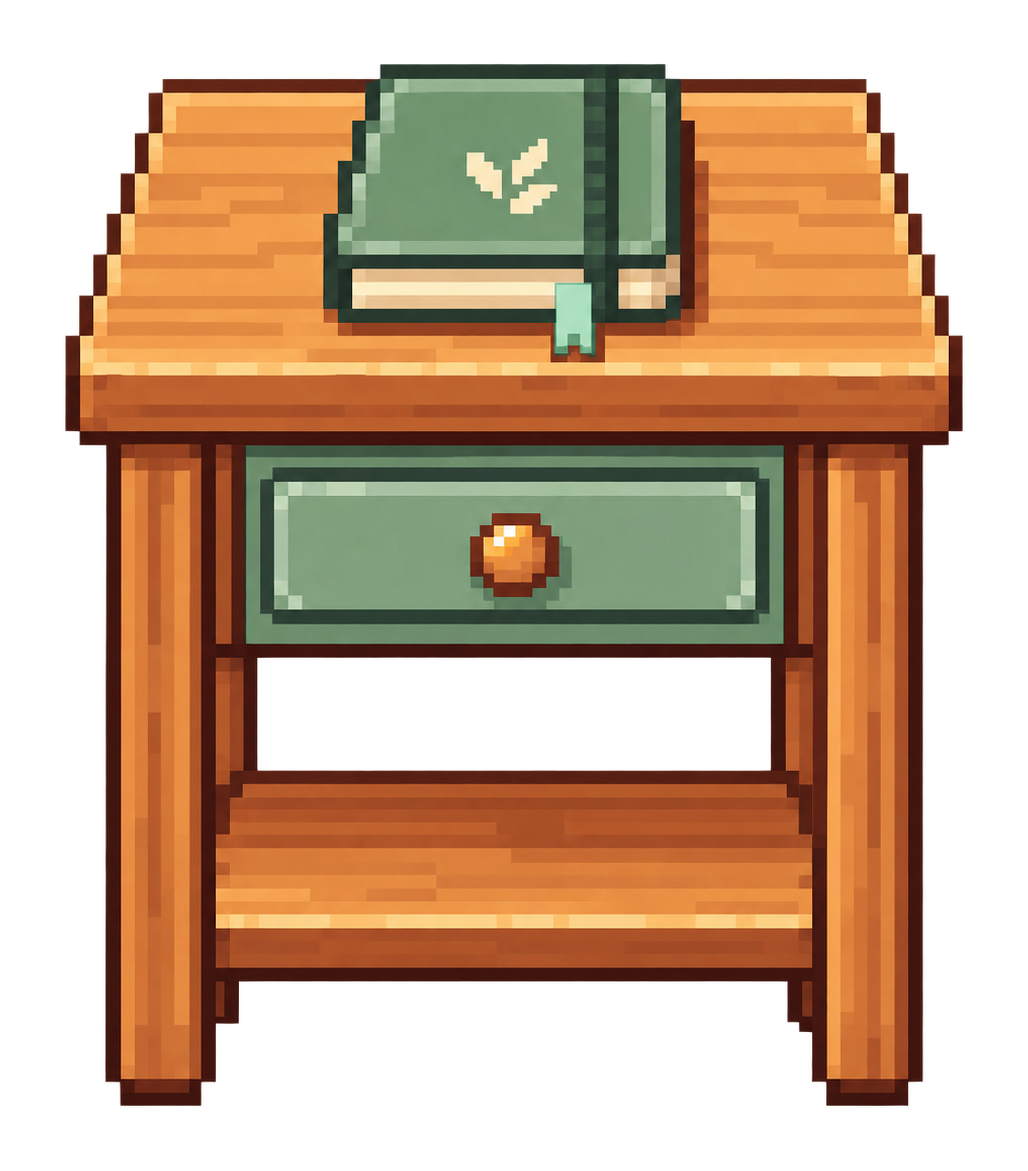
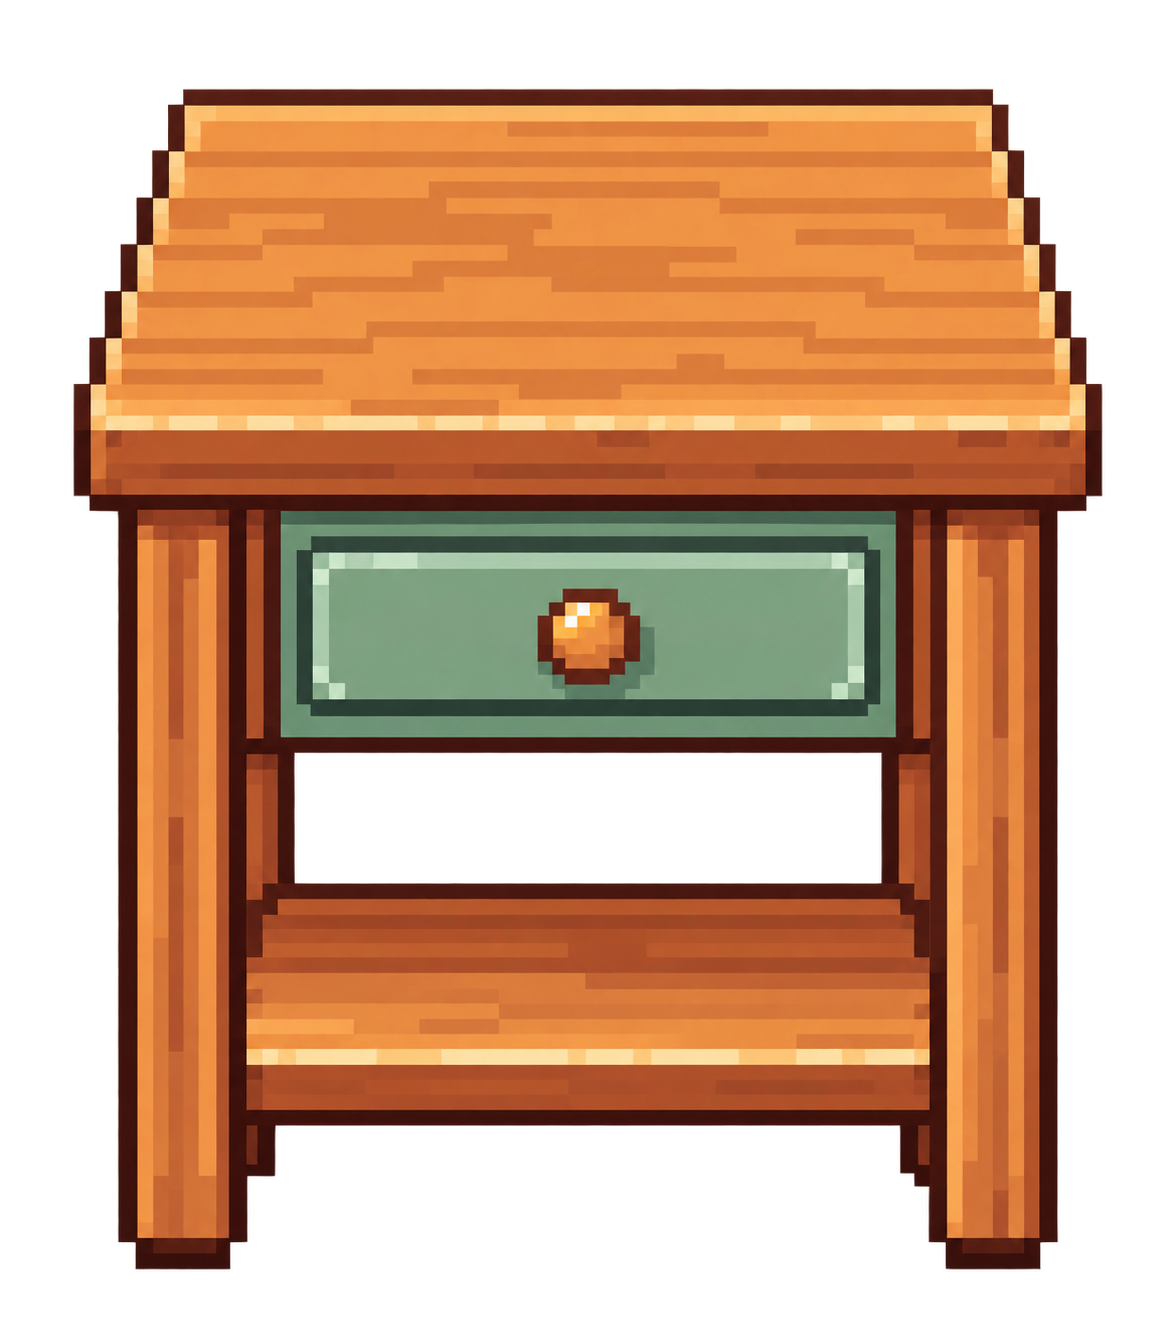
Clear side tables and adjust coffee machine layering and TV height

diff --git a/src/renderer/src/game/OfficeScene.ts b/src/renderer/src/game/OfficeScene.ts
@@ -164,6 +164,7 @@ const TABLETOP_FURNITURE_FRAMES = new Set([DESK_FURNITURE_FRAME, 6, 16, CONFEREN
 // Keep the monitor wider than a seated character's head so its edges remain visible.
 const DESK_ASSET_SCALE = 1
 const CHAIR_ASSET_SCALE = 1.33
+const SCREEN_HEIGHT_SCALE = 2.5
 const FURNITURE_WALK_CLEARANCE = 2
 type FurnitureDirection = typeof FURNITURE_DIRECTIONS[number]
 const directionalFurnitureAssets = import.meta.glob('../assets/pixel-office/furniture/directional/*.png', {
@@ -236,6 +237,11 @@ const ACTOR_SPRITE_Y_OFFSET = -64
 const SEAT_ACCESS_RADIUS = 144
 
 function furnitureDisplaySize(frame: number, columns: number, rows: number): { width: number; height: number } {
+  // Grow the screen's short axis while preserving its width and wall placement.
+  // Cardinal side views swap that axis when the furniture is rotated.
+  if (frame === 5) return columns >= rows
+    ? { width: columns * 16, height: rows * 16 * SCREEN_HEIGHT_SCALE }
+    : { width: columns * 16 * SCREEN_HEIGHT_SCALE, height: rows * 16 }
   const scale = frame === DESK_FURNITURE_FRAME ? DESK_ASSET_SCALE
     : [12, 13, 14].includes(frame) ? CHAIR_ASSET_SCALE : 1
   return { width: columns * 16 * scale, height: rows * 16 * scale }
@@ -1153,10 +1159,11 @@ export class OfficeScene extends Phaser.Scene {
         }
       }
     }
-    // A laptop rests on the tabletop, even when its center is further north
-    // than the table's center. It must not jump in front of unrelated furniture.
+    // Coffee machines and laptops rest on the tabletop, even when their
+    // centers are further north. This only changes drawing order: the coffee
+    // machine remains a solid obstacle and an interactive pantry destination.
     for (const { frame, image } of this.furniture.values()) {
-      if (!STACKABLE_FURNITURE_FRAMES.has(frame)) continue
+      if (frame !== 0 && !STACKABLE_FURNITURE_FRAMES.has(frame)) continue
       const propBounds = this.furnitureWalkCollision(image, 0)
       for (const support of this.furniture.values()) {
         if (!TABLETOP_FURNITURE_FRAMES.has(support.frame)) continue

diff --git a/src/renderer/src/game/layoutPersistence.ts b/src/renderer/src/game/layoutPersistence.ts
@@ -90,7 +90,7 @@ export const DEFAULT_LAYOUT_SEED: OfficeLayoutSave = {
   'custom-1787984442155-3': { x: 240, y: 80, rotation: 0, zOrder: 64, frame: 1, width: 64, height: 128 },
   'custom-1787984453381-4': { x: 48, y: 112, rotation: 0, zOrder: 70, frame: 16, width: 64, height: 32 },
   [CONFERENCE_TABLE_ID]: { x: 480, y: 200, rotation: 0, zOrder: 648, frame: CONFERENCE_TABLE_FRAME, width: 256, height: 144 },
-  'custom-1787984480720-6': { x: 464, y: 48, rotation: 0, zOrder: 631, frame: 5, width: 160, height: 32 },
+  'custom-1787984480720-6': { x: 464, y: 48, rotation: 0, zOrder: 631, frame: 5, width: 160, height: 80 },
   'custom-1787984492714-7': { x: 448, y: 160, rotation: 0, zOrder: 653, frame: 12, width: 85.12, height: 85.12 },
   'custom-1787984505669-8': { x: 528, y: 160, rotation: 0, zOrder: 655, frame: 12, width: 85.12, height: 85.12 },
   'custom-1787984561211-12': { x: 528, y: 240, rotation: 180, zOrder: 651, frame: 12, width: 85.12, height: 85.12 },

diff --git a/src/renderer/src/assets/pixel-office/furniture/side-table-empty.md b/src/renderer/src/assets/pixel-office/furniture/side-table-empty.md
@@ -1,0 +1,45 @@
+# Empty side table
+
+Edited with the built-in image generation tool. The tabletop book and bookmark were removed from every facing; the drawer, knob, legs and lower shelf remain. Generated alpha is preserved.
+
+## Saved assets
+
+- `side-table-v2.png`: default front view and editor palette.
+- `directional/side-table-front-v1.png`: front view.
+- `directional/side-table-right-v1.png`: right view.
+- `directional/side-table-back-v1.png`: rear view.
+- `directional/side-table-left-v1.png`: left view.
+
+## Prompts
+
+### front
+
+Use case: precise-object-edit
+Edit target: the provided pixel-art side table, front facing.
+Change ONLY this: remove the entire green book, pages, bookmark ribbon and book shadow from the tabletop. Reconstruct the exposed honey-orange wood tabletop beneath it, continuing the existing pixel wood grain and lighting. The tabletop must be completely empty: no objects, books, papers, cups or decorations.
+Preserve the exact table design, view direction, camera angle, outer silhouette, legs, lower shelf, green drawer (where visible), drawer knob, palette, pixel scale, dark outline and canvas framing. Do not redesign, rotate or resize the table. Preserve original transparent margins and leave the full table visible without clipping. The green drawer and knob are PART OF THE TABLE and must stay; only the object sitting on the top is removed.
+Output one isolated furniture sprite on actual alpha transparency, including all spaces between the legs and below the tabletop. If the reference has a white or checkerboard background, replace that BACKGROUND with genuine transparency. Never paint a checkerboard or opaque white backdrop. No floor, no cast ground shadow, no text.
+
+### right
+
+Use case: precise-object-edit
+Edit target: the provided pixel-art side table, right facing.
+Change ONLY this: remove the entire green book, pages, bookmark ribbon and book shadow from the tabletop. Reconstruct the exposed honey-orange wood tabletop beneath it, continuing the existing pixel wood grain and lighting. The tabletop must be completely empty: no objects, books, papers, cups or decorations.
+Preserve the exact table design, view direction, camera angle, outer silhouette, legs, lower shelf, green drawer (where visible), drawer knob, palette, pixel scale, dark outline and canvas framing. Do not redesign, rotate or resize the table. Preserve original transparent margins and leave the full table visible without clipping. The green drawer and knob are PART OF THE TABLE and must stay; only the object sitting on the top is removed.
+Output one isolated furniture sprite on actual alpha transparency, including all spaces between the legs and below the tabletop. If the reference has a white or checkerboard background, replace that BACKGROUND with genuine transparency. Never paint a checkerboard or opaque white backdrop. No floor, no cast ground shadow, no text.
+
+### back
+
+Use case: precise-object-edit
+Edit target: the provided pixel-art side table, back facing.
+Change ONLY this: remove the entire green book, pages, bookmark ribbon and book shadow from the tabletop. Reconstruct the exposed honey-orange wood tabletop beneath it, continuing the existing pixel wood grain and lighting. The tabletop must be completely empty: no objects, books, papers, cups or decorations.
+Preserve the exact table design, view direction, camera angle, outer silhouette, legs, lower shelf, green drawer (where visible), drawer knob, palette, pixel scale, dark outline and canvas framing. Do not redesign, rotate or resize the table. Preserve original transparent margins and leave the full table visible without clipping. The green drawer and knob are PART OF THE TABLE and must stay; only the object sitting on the top is removed.
+Output one isolated furniture sprite on actual alpha transparency, including all spaces between the legs and below the tabletop. If the reference has a white or checkerboard background, replace that BACKGROUND with genuine transparency. Never paint a checkerboard or opaque white backdrop. No floor, no cast ground shadow, no text.
+
+### left
+
+Use case: precise-object-edit
+Edit target: the provided pixel-art side table, left facing.
+Change ONLY this: remove the entire green book, pages, bookmark ribbon and book shadow from the tabletop. Reconstruct the exposed honey-orange wood tabletop beneath it, continuing the existing pixel wood grain and lighting. The tabletop must be completely empty: no objects, books, papers, cups or decorations.
+Preserve the exact table design, view direction, camera angle, outer silhouette, legs, lower shelf, green drawer (where visible), drawer knob, palette, pixel scale, dark outline and canvas framing. Do not redesign, rotate or resize the table. Preserve original transparent margins and leave the full table visible without clipping. The green drawer and knob are PART OF THE TABLE and must stay; only the object sitting on the top is removed.
+Output one isolated furniture sprite on actual alpha transparency, including all spaces between the legs and below the tabletop. If the reference has a white or checkerboard background, replace that BACKGROUND with genuine transparency. Never paint a checkerboard or opaque white backdrop. No floor, no cast ground shadow, no text.

diff --git a/ASSET_CATALOG.md b/ASSET_CATALOG.md
@@ -48,7 +48,7 @@ pixel-office/
 | `workstation-desk-v1.png` | 팀/대표 업무 책상 | 12×6 |
 | `office-chair-v2.png` | 정면형 사무용 의자 | 4×4 |
 | `office-plant-v1.png` | 실내 화분 | 2×4 |
-| `side-table-v2.png` | 정면형 대표실 사이드 테이블 | 4×2 |
+| `side-table-v2.png` | 빈 상판의 대표실 사이드 테이블 (4방향 모두 책 제거) | 4×2 |
 | `office-sofa-v1.png` | 대표실 소파 | 8×4 |
 | `floor-lamp-v1.png` | 대표실 램프 | 2×2 |
 | `bookcase-v2.png` | 정면형 대표실 책장 | 4×8 |
